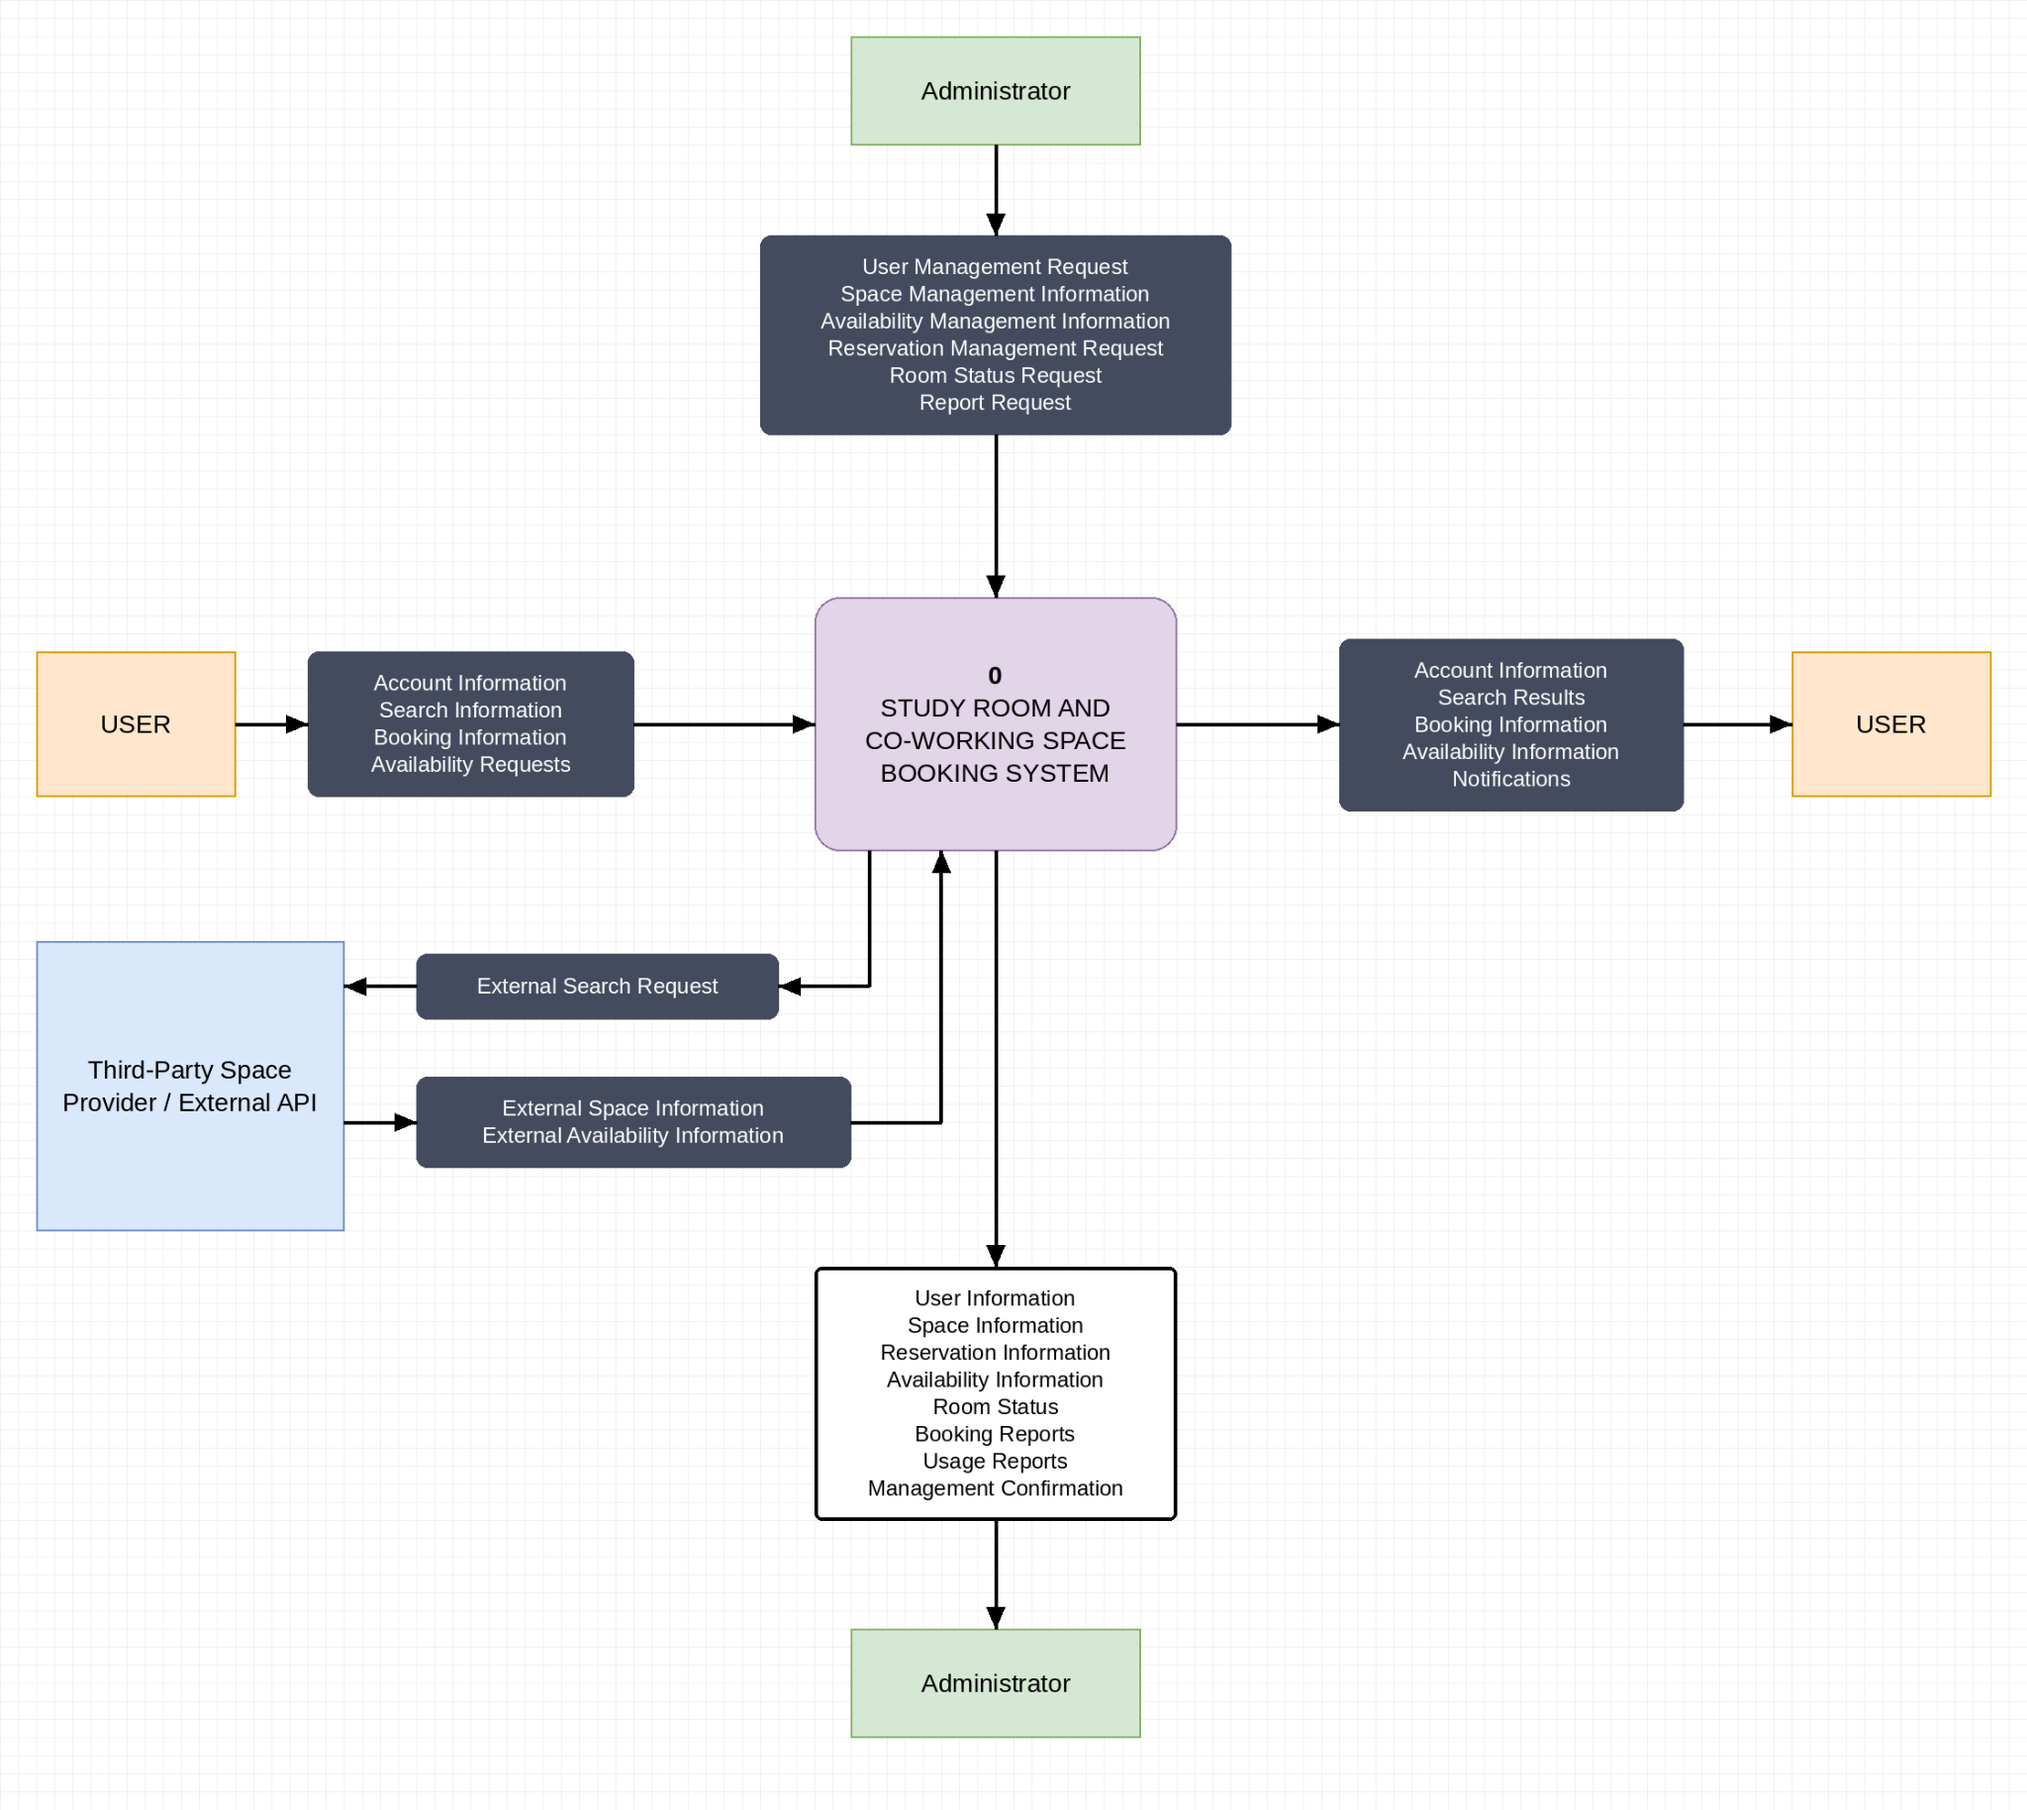
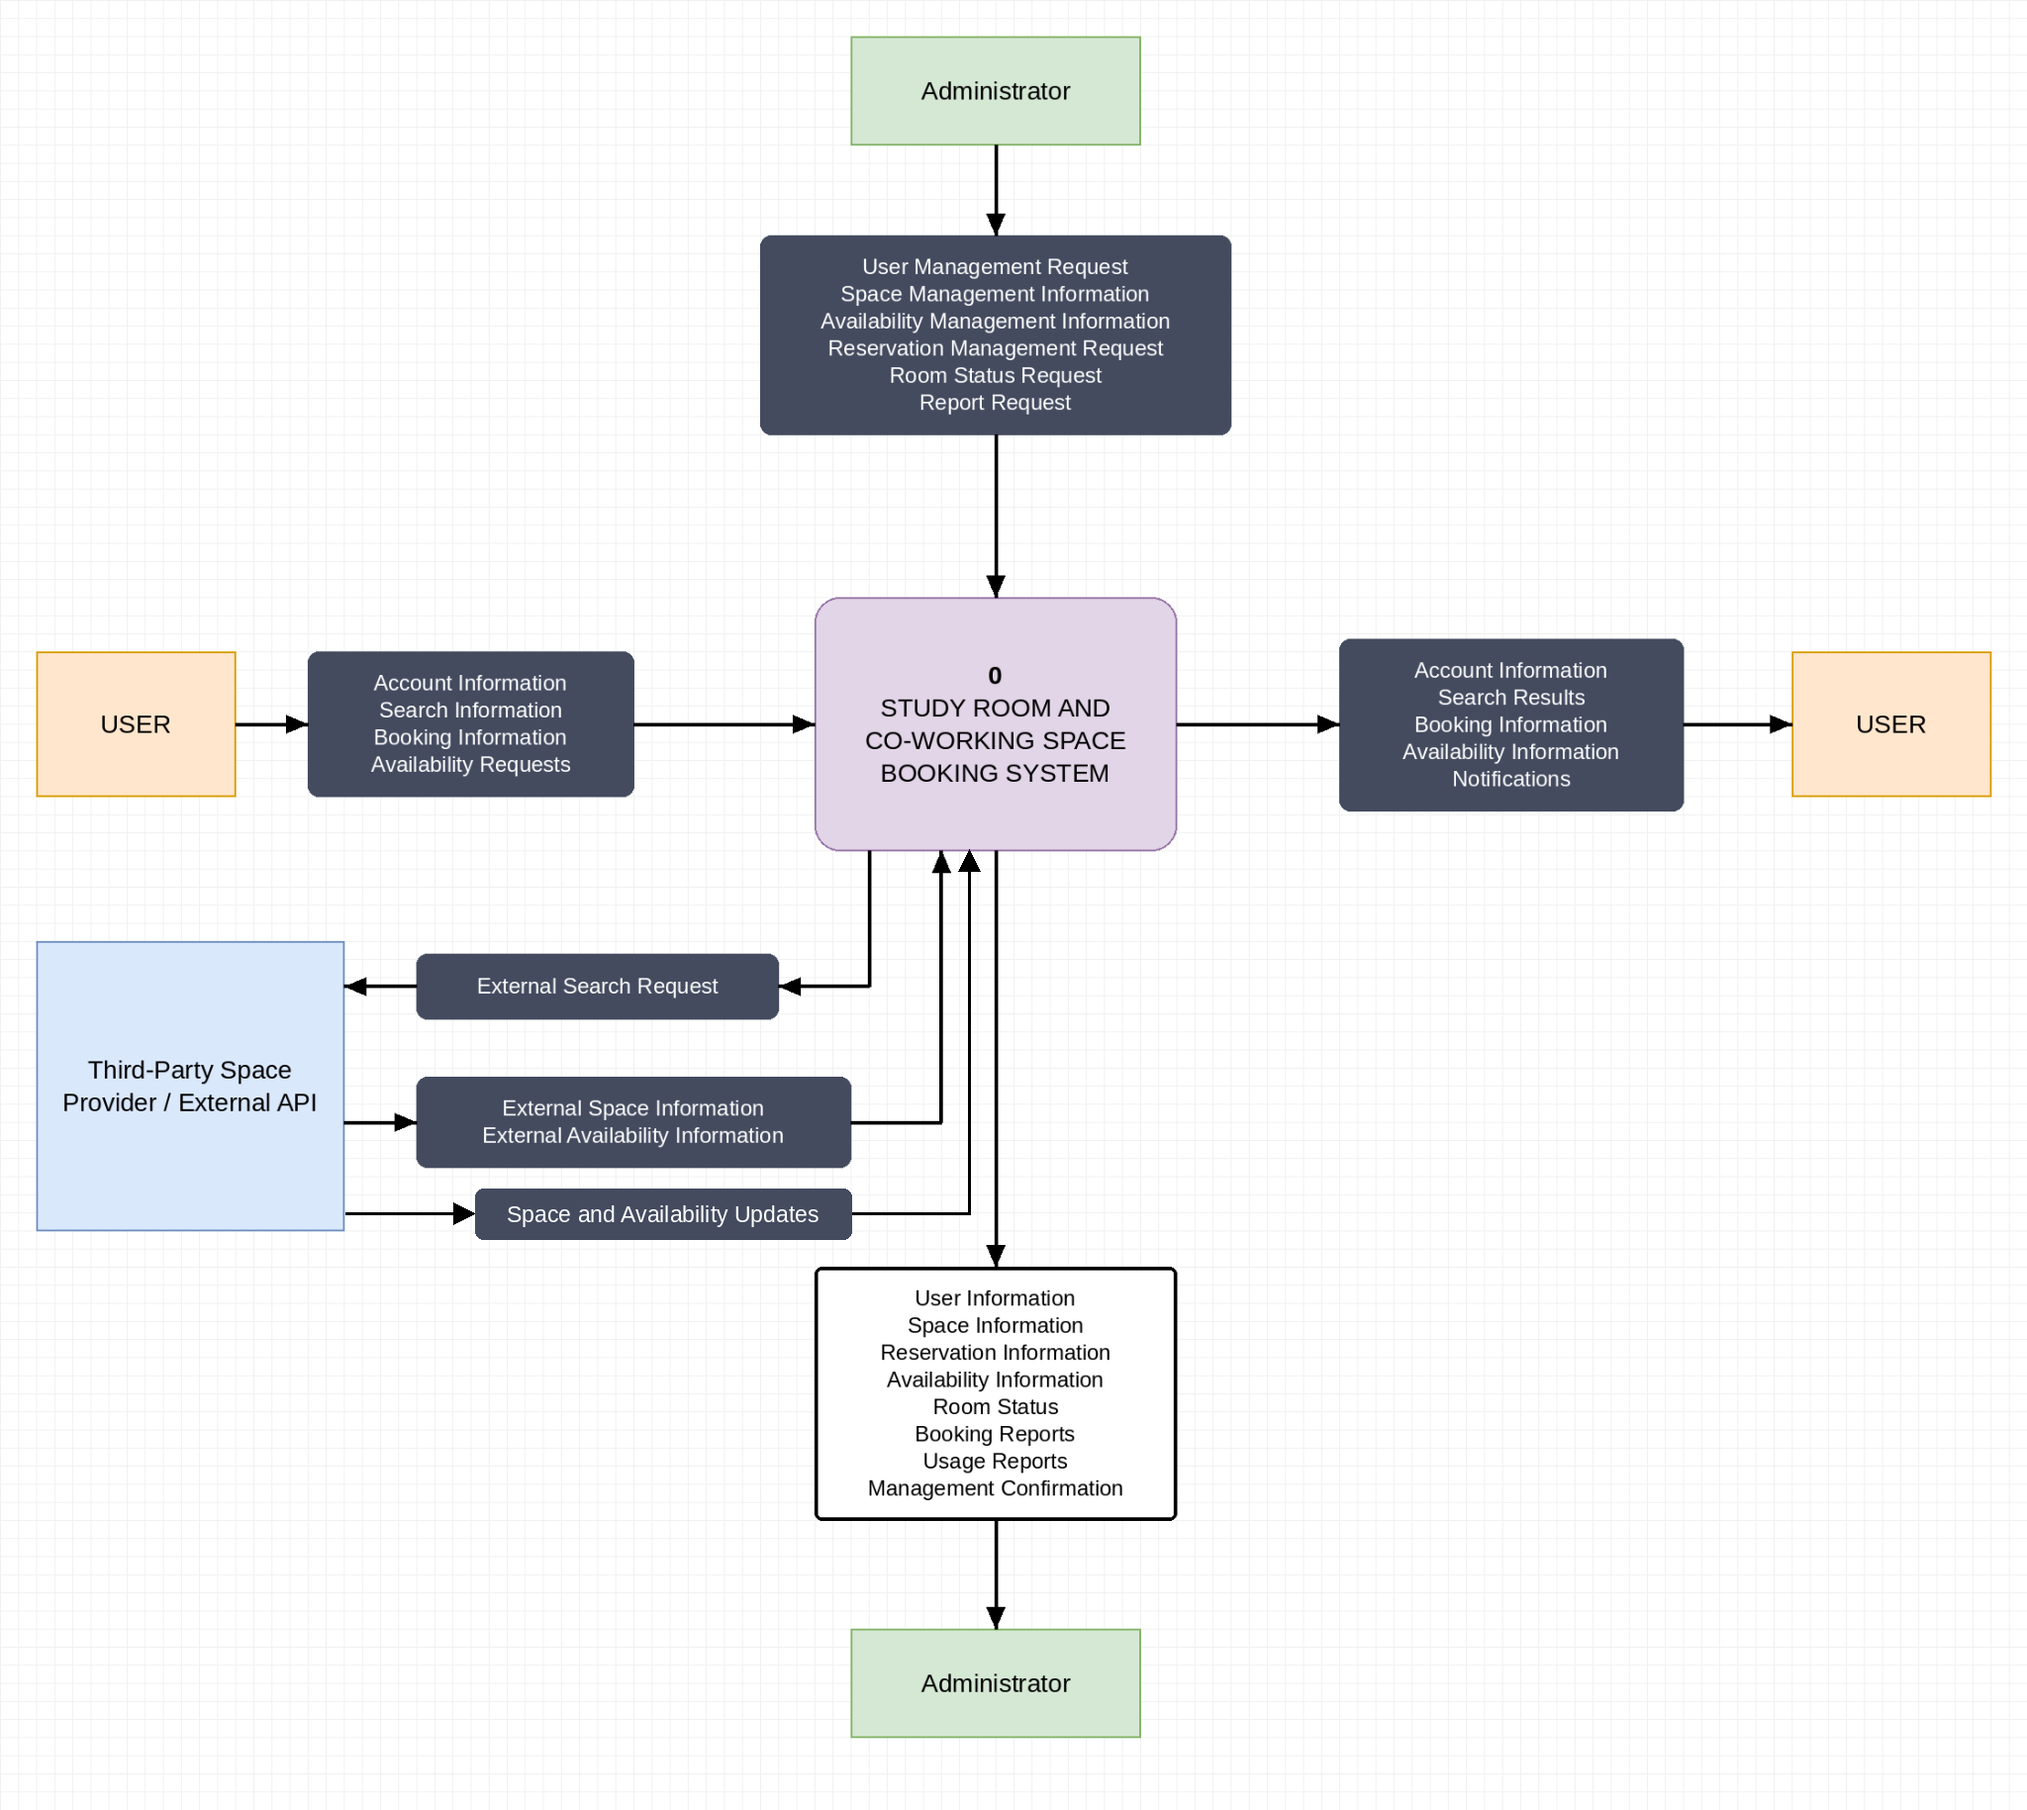
Add provider space and availability updates to Lab 4
- Context Diagram and Level-0 DFD: new "Space and Availability Updates" flow from the provider
- Core Processes Matrix P4: new input and validation rule for DeskOS API updates
- WBS T7: receive and save space and availability updates from the DeskOS API
- DFD consistency check: list the new flow

Claude-Session: https://claude.ai/code/session_01FwwSUnqeJBigKi2E32NFcy

Changed region(s): [[0.2188, 0.6545, 0.4375, 0.6856]]

diff --git a/Project/Data_Flow_Modeling/Core_Processes_Matrix.md b/Project/Data_Flow_Modeling/Core_Processes_Matrix.md
@@ -5,5 +5,5 @@
 | P1 – User Management | Registration information, login credentials, profile update information, booking history request | Registration confirmation, login confirmation, updated profile information, user information, booking history | The system shall validate registration information before creating an account. Users must provide valid credentials to log in. Only authenticated users can access their profiles and booking histories. Users can update only their own profile information. |
 | P2 – Space Search and Selection | Space type, location, date, time, duration, capacity, facility requirements, space details request, availability information, external space information | Available spaces, search results, space details, facility information, location information, availability information | The system shall search for spaces according to the user's selected criteria. Results shall match the requested space type, location, capacity, facilities, date, and time. Users can filter spaces based on available facilities. External space information must be processed before being displayed. |
 | P3 – Booking Management | Booking request, booking modification request, booking cancellation request, booking details, user information, selected space information, availability information | Booking confirmation, updated booking information, cancellation confirmation, booking status, upcoming bookings, previous bookings | A booking can only be created if the selected space is available. The system shall prevent overlapping bookings for the same space and time. Modifications must be checked against current availability. Cancellations must follow the booking cancellation policy and update the booking status. |
-| P4 – Availability and Notification Management | Availability request, space status request, booking information, cancellation information, modification information, notification request | Availability information, updated space availability, booking reminders, booking notifications, space-availability notifications | The system shall maintain current availability information. Availability shall be updated when bookings are created, modified, or cancelled. The system shall send booking reminders for upcoming bookings. Users who request an availability notification shall be notified when the requested space and time become available. |
+| P4 – Availability and Notification Management | Availability request, space status request, booking information, cancellation information, modification information, notification request, space and availability updates from the DeskOS API | Availability information, updated space availability, booking reminders, booking notifications, space-availability notifications | The system shall maintain current availability information. Availability shall be updated when bookings are created, modified, or cancelled. The system shall send booking reminders for upcoming bookings. Users who request an availability notification shall be notified when the requested space and time become available. Space and availability updates received from the DeskOS API shall be validated before being saved. |
 | P5 – Administration | User management request, space management information, facility information, availability management information, reservation management request, room status request, report request, booking data, user data, space data | Updated user information, updated space information, updated availability information, reservation information, room status information, booking reports, usage reports, management confirmation | Only authorized administrators can manage users, spaces, availability, and reservations. Administrative changes must be validated before being saved. Administrators can view and manage user accounts, manage space information, manage reservations, monitor room status, and generate booking and usage reports. |

diff --git a/Project/Project_Scheduling/WBS.md b/Project/Project_Scheduling/WBS.md
@@ -8,7 +8,7 @@
 | T4 | User Management Implementation | Implement account registration, authentication, login, profile management, user information, and access to booking history. | T2, T3 | 5 |
 | T5 | Space Search and Selection Implementation | Implement space searching and filtering based on location, date, time, duration, capacity, space type, and facilities. Implement space-detail viewing and integration with the third-party space provider. | T2, T3 | 6 |
 | T6 | Booking Management Implementation | Implement booking creation, booking confirmation, booking modification, booking cancellation, and viewing of upcoming and previous bookings. | T4, T5 | 7 |
-| T7 | Availability and Notification Implementation | Implement availability checking and updates, booking reminders, booking notifications, and notifications when a previously unavailable space becomes available. | T6 | 5 |
+| T7 | Availability and Notification Implementation | Implement availability checking and updates, booking reminders, booking notifications, and notifications when a previously unavailable space becomes available. Receive and save space and availability updates from the DeskOS API. | T6 | 5 |
 | T8 | Administration Implementation | Implement administrator functions for managing users, spaces, facilities, availability, reservations, room status, and booking/usage reports. | T4, T5, T6 | 6 |
 | T9 | System Integration | Integrate user management, space search, booking management, availability and notification management, and administration. Verify communication with the third-party space provider and ensure the components work together correctly. | T7, T8 | 4 |
 | T10 | System Testing and Bug Fixing | Test registration, authentication, space search, filtering, external space information, booking operations, modifications, cancellations, availability updates, notifications, administration, data consistency, and system integration. Fix identified defects. | T9 | 6 |

diff --git a/Project/Data_Flow_Modeling/DFD_Consistency_Check.md b/Project/Data_Flow_Modeling/DFD_Consistency_Check.md
@@ -12,6 +12,7 @@ Every flow between an external entity and the system in the Context Diagram also
 | User | Availability Requests, Availability Information, Notifications | P4 Availability and Notification Management |
 | Administrator | Management requests and reports | P5 Administration |
 | Third-Party Space Provider | External Search Request, External Space Information, External Availability Information | P2 Space Search and Selection |
+| Third-Party Space Provider | Space and Availability Updates | P4 Availability and Notification Management |
 
 ## Checklist
 
